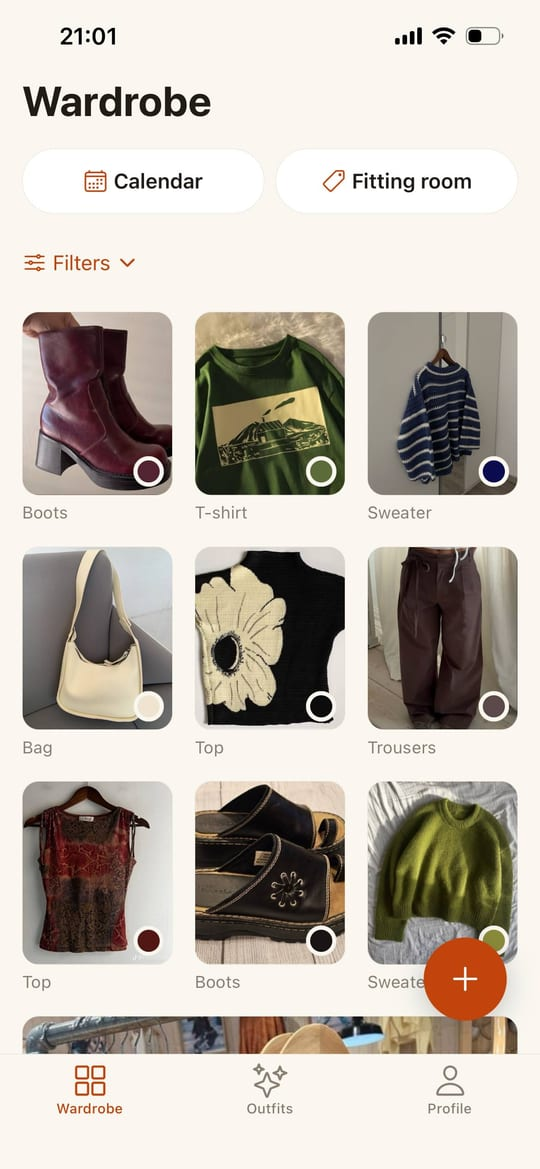
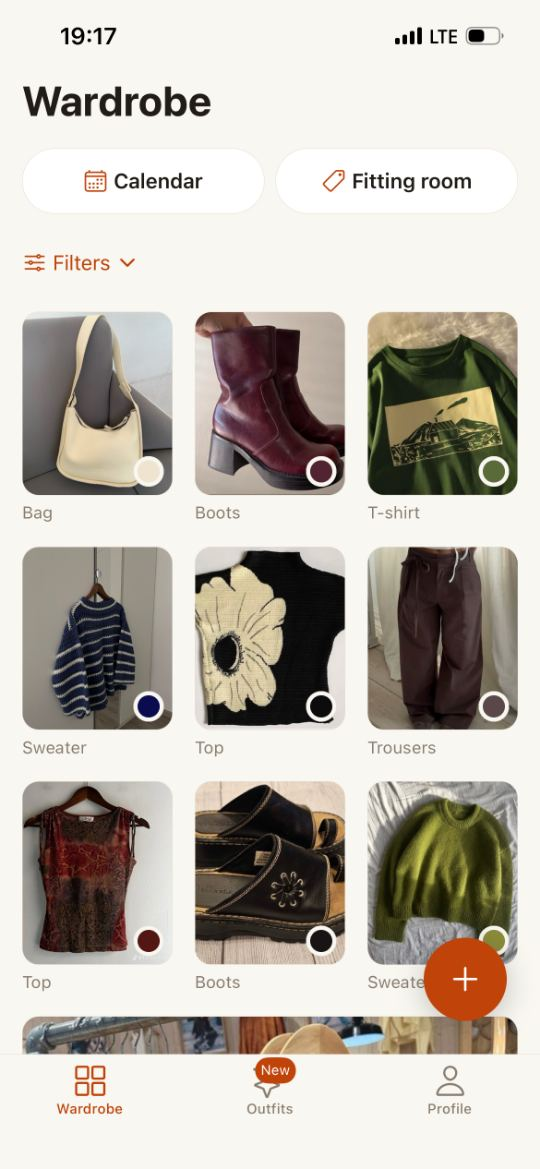
feat: нові знімки образів і гардероба з теперішнього застосунку
outfits — головне: на старому знімку стояла кнопка «Generate more», якої
в застосунку вже немає, і текст поруч («натискати нічого не треба») з нею
сперечався. На новому одна кнопка, «Build my own», і 24 підібраних
образи — рівно те, про що каже блок.

grid (герой) — той самий екран гардероба, знятий заново. Вартий заміни
через одну деталь: на вкладці Outfits видно значок «New». Це і є те
саме «підбірка поповнилася сама», про яке блок 03 тепер говорить
словами, — тільки показане, а не сказане.

Обидва знімки прийшли як 1170×2532 і зменшені до 540×1169, як решта
набору; jpeg і webp важать стільки ж, скільки ті, що замінили. Ні
ImageMagick, ні sharp у цьому середовищі немає — зменшував і кодував
Chromium через canvas.

alt переписано під те, що тепер на картинках: outfits.alt більше не
згадує кнопку генерації, hero.alt перелічує речі в теперішньому порядку.
Примітку в README про застарілий знімок прибрано — вона своє відпрацювала.

Claude-Session: https://claude.ai/code/session_01QwhypE8vfpRcyQmGvFwxH6

diff --git a/README.md b/README.md
@@ -268,15 +268,6 @@ sets nothing, and is described in **Analytics** above.
   `suits` replaced `pairs` and then `item` — and are kept only because an
   unreferenced file costs a visitor nothing; delete them when you are sure.
 
-  **`outfits` is out of date.** It was captured while the outfits screen still
-  had a “Generate more” button; the app dropped that button — suggestions now
-  refill themselves after every item added or edited — and section 03 says so
-  in words. Until the capture is retaken from the current app, the page shows
-  a button its own text says you do not need to press. Three things change
-  together with the file: `outfits.jpg`, `outfits.webp`, and the
-  `outfits.alt` string in all four dictionaries, which describes the button
-  because the picture still has it.
-
   New captures come in at 1170×2532; they are resized to 540 wide to match
   the set, which puts each one back in the 24–50 KB range the others sit in.
   The iPhone screens are 540×1169 rather than 540×1200, so the `width` and
